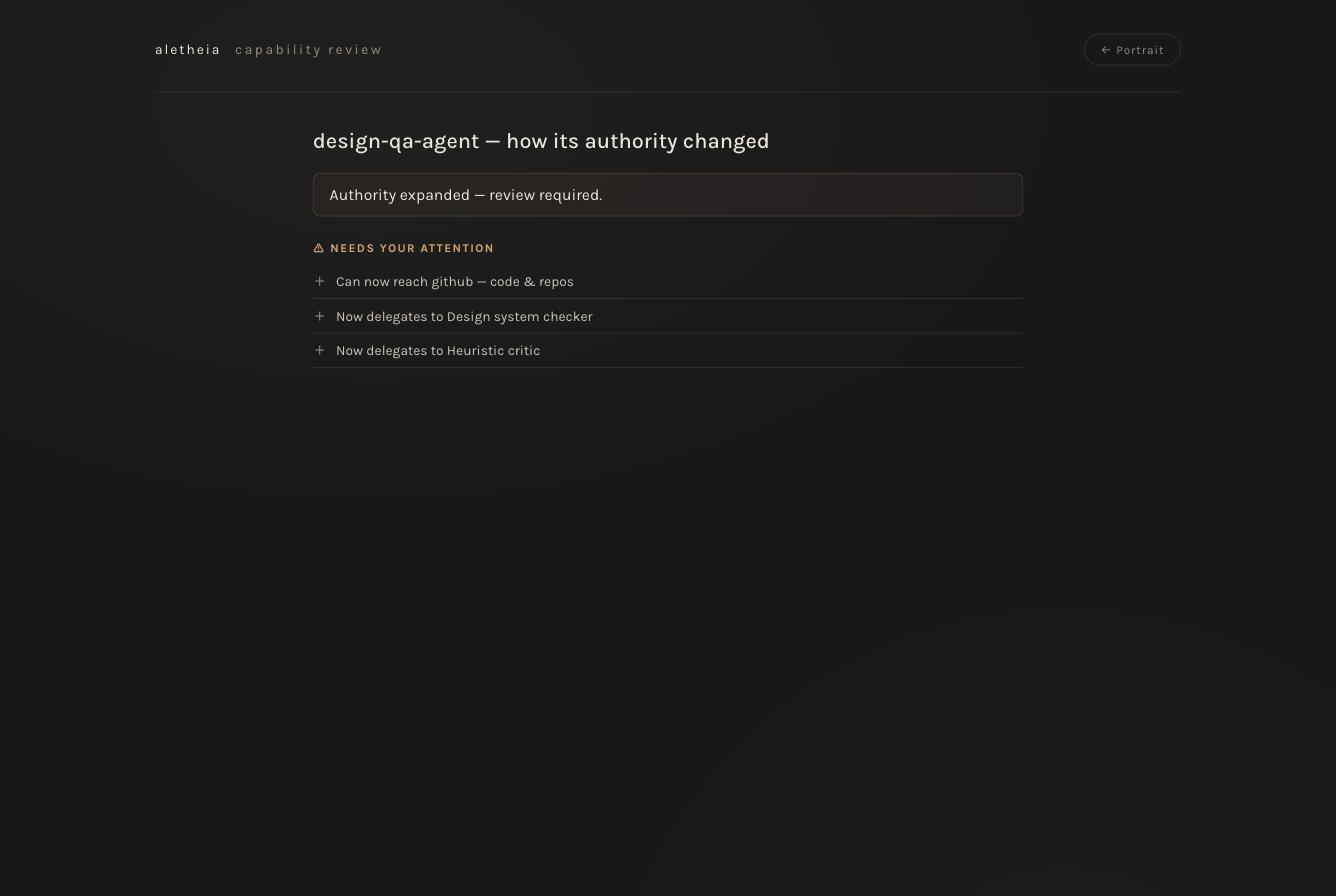
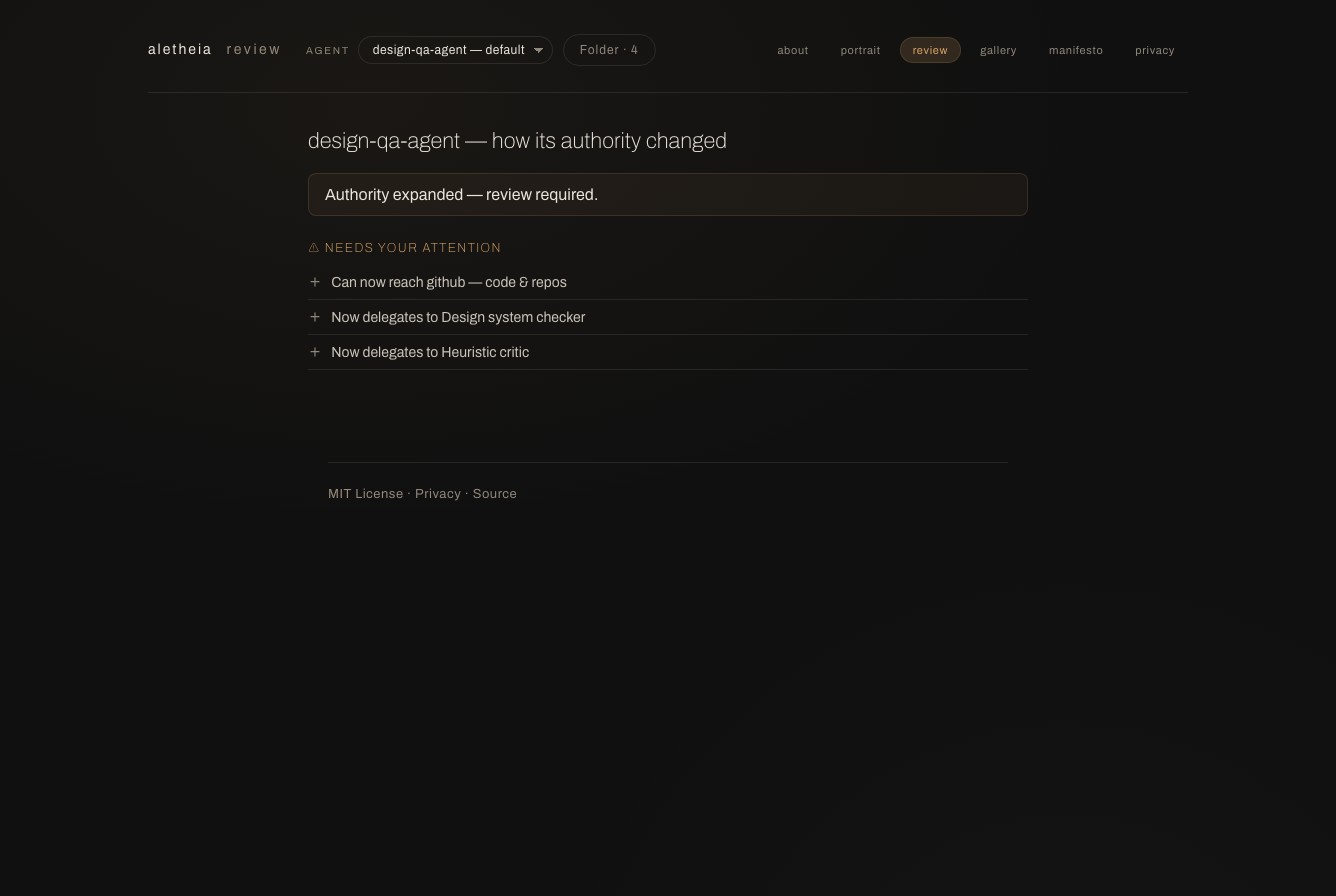
Update font from Karla to Archivo in styles and documentation, enhance loading logic in CapabilityReviewPage, and improve error handling in projectClient. Update several images in the gallery for better representation.

diff --git a/src/styles.css b/src/styles.css
@@ -1,7 +1,8 @@
 :root {
-  /* Warm near-black, light surfacing from the dark. */
-  --bg: #18181a;
-  --bg-deep: #141416;
+  /* Near-black surfaces — hierarchy from depth, not tint. */
+  --bg: #101010;
+  --bg-deep: #0a0a0a;
+  --bg-elevated: #141414;
   --ink: #ece6dc;        /* warm off-white — headings */
   --ink-soft: #cbc4b8;   /* body */
   --muted: #8f877c;      /* labels, secondary */
@@ -11,8 +12,10 @@
   --accent: #d9a368;     /* warm amber, used sparingly */
   --accent-dim: rgba(217, 163, 104, 0.16);
   --accent-glow: rgba(217, 163, 104, 0.05);
-  --sans: "Karla", system-ui, -apple-system, "Segoe UI", Roboto, sans-serif;
+  --sans: "Archivo", system-ui, -apple-system, "Segoe UI", Roboto, sans-serif;
   --mono: ui-monospace, "SF Mono", "JetBrains Mono", Menlo, Consolas, monospace;
+  --weight-headline: 100;
+  --weight-body: 400;
 }
 
 * { box-sizing: border-box; }
@@ -45,8 +48,19 @@ html, body {
   background: var(--bg);
   color: var(--ink-soft);
   font-family: var(--sans);
+  font-weight: var(--weight-body);
   -webkit-font-smoothing: antialiased;
   text-rendering: optimizeLegibility;
+}
+
+h1, h2, h3,
+.agent-name,
+.create-title,
+.review-title,
+.runtime-heading,
+.gallery-intro h1 {
+  font-family: var(--sans);
+  font-weight: var(--weight-headline);
 }
 
 body {
@@ -244,7 +258,7 @@ code { font-family: var(--sans); color: var(--muted); }
 .gallery-intro h1 {
   font-family: var(--sans);
   font-size: 30px;
-  font-weight: 600;
+  font-weight: var(--weight-headline);
   color: var(--ink);
   margin: 0 0 12px;
 }
@@ -308,18 +322,18 @@ code { font-family: var(--sans); color: var(--muted); }
 .manifesto h1 {
   font-size: 40px;
   line-height: 1.1;
-  font-weight: 600;
+  font-weight: var(--weight-headline);
   color: var(--ink);
   letter-spacing: -0.01em;
   margin: 8px 0 4px;
 }
 .manifesto h2 {
   font-size: 20px;
-  font-weight: 600;
+  font-weight: var(--weight-headline);
   color: var(--ink);
   margin: 44px 0 12px;
 }
-.manifesto h3 { font-size: 16px; font-weight: 600; color: var(--ink); margin: 28px 0 8px; }
+.manifesto h3 { font-size: 16px; font-weight: var(--weight-headline); color: var(--ink); margin: 28px 0 8px; }
 .manifesto p {
   font-size: 17px;
   line-height: 1.65;
@@ -353,7 +367,7 @@ code { font-family: var(--sans); color: var(--muted); }
 
 .prose h1 {
   font-size: 40px;
-  font-weight: 600;
+  font-weight: var(--weight-headline);
   line-height: 1.12;
   color: var(--ink);
   margin: 0 0 20px;
@@ -362,7 +376,7 @@ code { font-family: var(--sans); color: var(--muted); }
 
 .prose h2 {
   font-size: 22px;
-  font-weight: 600;
+  font-weight: var(--weight-headline);
   color: var(--ink);
   margin: 40px 0 12px;
 }
@@ -485,7 +499,7 @@ code { font-family: var(--sans); color: var(--muted); }
 .review-title {
   font-family: var(--sans);
   font-size: 22px;
-  font-weight: 500;
+  font-weight: var(--weight-headline);
   color: var(--ink);
   margin: 0 0 20px;
 }
@@ -574,7 +588,7 @@ code { font-family: var(--sans); color: var(--muted); }
 .agent-name {
   font-size: 56px;
   line-height: 1;
-  font-weight: 600;
+  font-weight: var(--weight-headline);
   letter-spacing: -0.02em;
   color: var(--ink);
   margin: 0 0 14px;
@@ -1106,7 +1120,7 @@ code { font-family: var(--sans); color: var(--muted); }
   font-size: 36px;
   color: var(--ink);
   margin: 0 0 8px;
-  font-weight: 600;
+  font-weight: var(--weight-headline);
 }
 .create-lead {
   color: var(--muted);
@@ -1173,7 +1187,7 @@ code { font-family: var(--sans); color: var(--muted); }
 
 .runtime-heading {
   font-size: 18px;
-  font-weight: 500;
+  font-weight: var(--weight-headline);
   margin: 0 0 8px;
 }
 

diff --git a/src/pages/CapabilityReviewPage.tsx b/src/pages/CapabilityReviewPage.tsx
@@ -27,22 +27,32 @@ function verdictLine(r: CapabilityReviewResponse): { headline: string; tone: str
 }
 
 export function CapabilityReviewPage() {
-  const { model, apiAvailable } = useProjectStore();
+  const { model, apiAvailable, loading: storeLoading } = useProjectStore();
   const [review, setReview] = useState<CapabilityReviewResponse | null>(null);
   const [loading, setLoading] = useState(true);
   const [error, setError] = useState<string | null>(null);
 
   const load = useCallback(async () => {
+    // Wait until ProjectStore has probed the inspection API. On the static
+    // showcase there is no /api — fetching would get HTML and blow up as JSON.
+    if (storeLoading) return;
+
     setLoading(true);
     setError(null);
     try {
+      if (!apiAvailable) {
+        // Hosted demo: show the bundled agent from source, same as an unbuilt
+        // local agent. Full authority diffs need `pnpm dev`.
+        setReview({ ok: false, built: false });
+        return;
+      }
       setReview(await fetchReview());
     } catch (err) {
       setError(err instanceof Error ? err.message : "Could not load capability review");
     } finally {
       setLoading(false);
     }
-  }, []);
+  }, [apiAvailable, storeLoading]);
 
   useEffect(() => {
     void load();
@@ -63,9 +73,10 @@ export function CapabilityReviewPage() {
           {model ? model.name : "Agent"} — how its authority changed
         </h1>
 
-        {!apiAvailable && (
+        {!apiAvailable && !storeLoading && (
           <p className="review-note">
-            The capability review needs the dev server (run <code>pnpm dev</code>).
+            Authority diffs need the local inspector (run <code>pnpm dev</code>).
+            Showing this agent&apos;s capabilities from source.
           </p>
         )}
         {loading && <p className="review-note">Loading review…</p>}
@@ -73,10 +84,12 @@ export function CapabilityReviewPage() {
 
         {review && !loading && !review.built && (
           <div className="review-group">
-            <p className="review-verdict tone-routine">
-              No compiled manifest yet — showing capabilities <strong>from source</strong>.
-              Build the agent (in its own project) to verify these and diff authority changes.
-            </p>
+            {apiAvailable && (
+              <p className="review-verdict tone-routine">
+                No compiled manifest yet — showing capabilities <strong>from source</strong>.
+                Build the agent (in its own project) to verify these and diff authority changes.
+              </p>
+            )}
             {model && model.capabilities.length > 0 && (
               <>
                 <h2>It can — from source</h2>

diff --git a/src/api/projectClient.ts b/src/api/projectClient.ts
@@ -11,6 +11,14 @@ export interface ProjectErrorResponse {
 }
 
 async function parseResponse<T>(res: Response): Promise<T> {
+  const contentType = res.headers.get("content-type") ?? "";
+  if (!contentType.includes("application/json")) {
+    throw new Error(
+      res.status === 404
+        ? "Inspection API not available (run pnpm dev)."
+        : `Expected JSON from inspection API (got ${contentType || "unknown"}, HTTP ${res.status}).`
+    );
+  }
   const body = (await res.json()) as T & ProjectErrorResponse;
   if (!res.ok) {
     throw new Error(body.error ?? `Request failed (${res.status})`);

diff --git a/index.html b/index.html
@@ -9,7 +9,7 @@
     <link rel="preconnect" href="https://fonts.googleapis.com" />
     <link rel="preconnect" href="https://fonts.gstatic.com" crossorigin />
     <link
-      href="https://fonts.googleapis.com/css2?family=Karla:ital,wght@0,300;0,400;0,500;0,600;0,700&display=swap"
+      href="https://fonts.googleapis.com/css2?family=Archivo:ital,wght@0,100;0,400;0,500;0,600;1,400&display=swap"
       rel="stylesheet"
     />
     <title>Aletheia — see what an agent can do</title>

diff --git a/src/pages/PrivacyPage.tsx b/src/pages/PrivacyPage.tsx
@@ -22,7 +22,7 @@ export function PrivacyPage() {
         <section>
           <h2>Third-party fonts</h2>
           <p>
-            Pages load the Karla typeface from{" "}
+            Pages load the Archivo typeface from{" "}
             <a href="https://fonts.google.com" target="_blank" rel="noreferrer">
               Google Fonts
             </a>

diff --git a/public/privacy.md b/public/privacy.md
@@ -8,7 +8,7 @@ The hosted Aletheia showcase does **not** use analytics, advertising trackers, a
 
 ## Third-party fonts
 
-Pages may load the Karla typeface from Google Fonts. When your browser requests those files, Google may receive your IP address and basic request metadata under Google's own privacy policy.
+Pages may load the Archivo typeface from Google Fonts. When your browser requests those files, Google may receive your IP address and basic request metadata under Google's own privacy policy.
 
 ## Local tool (`pnpm dev`)
 
